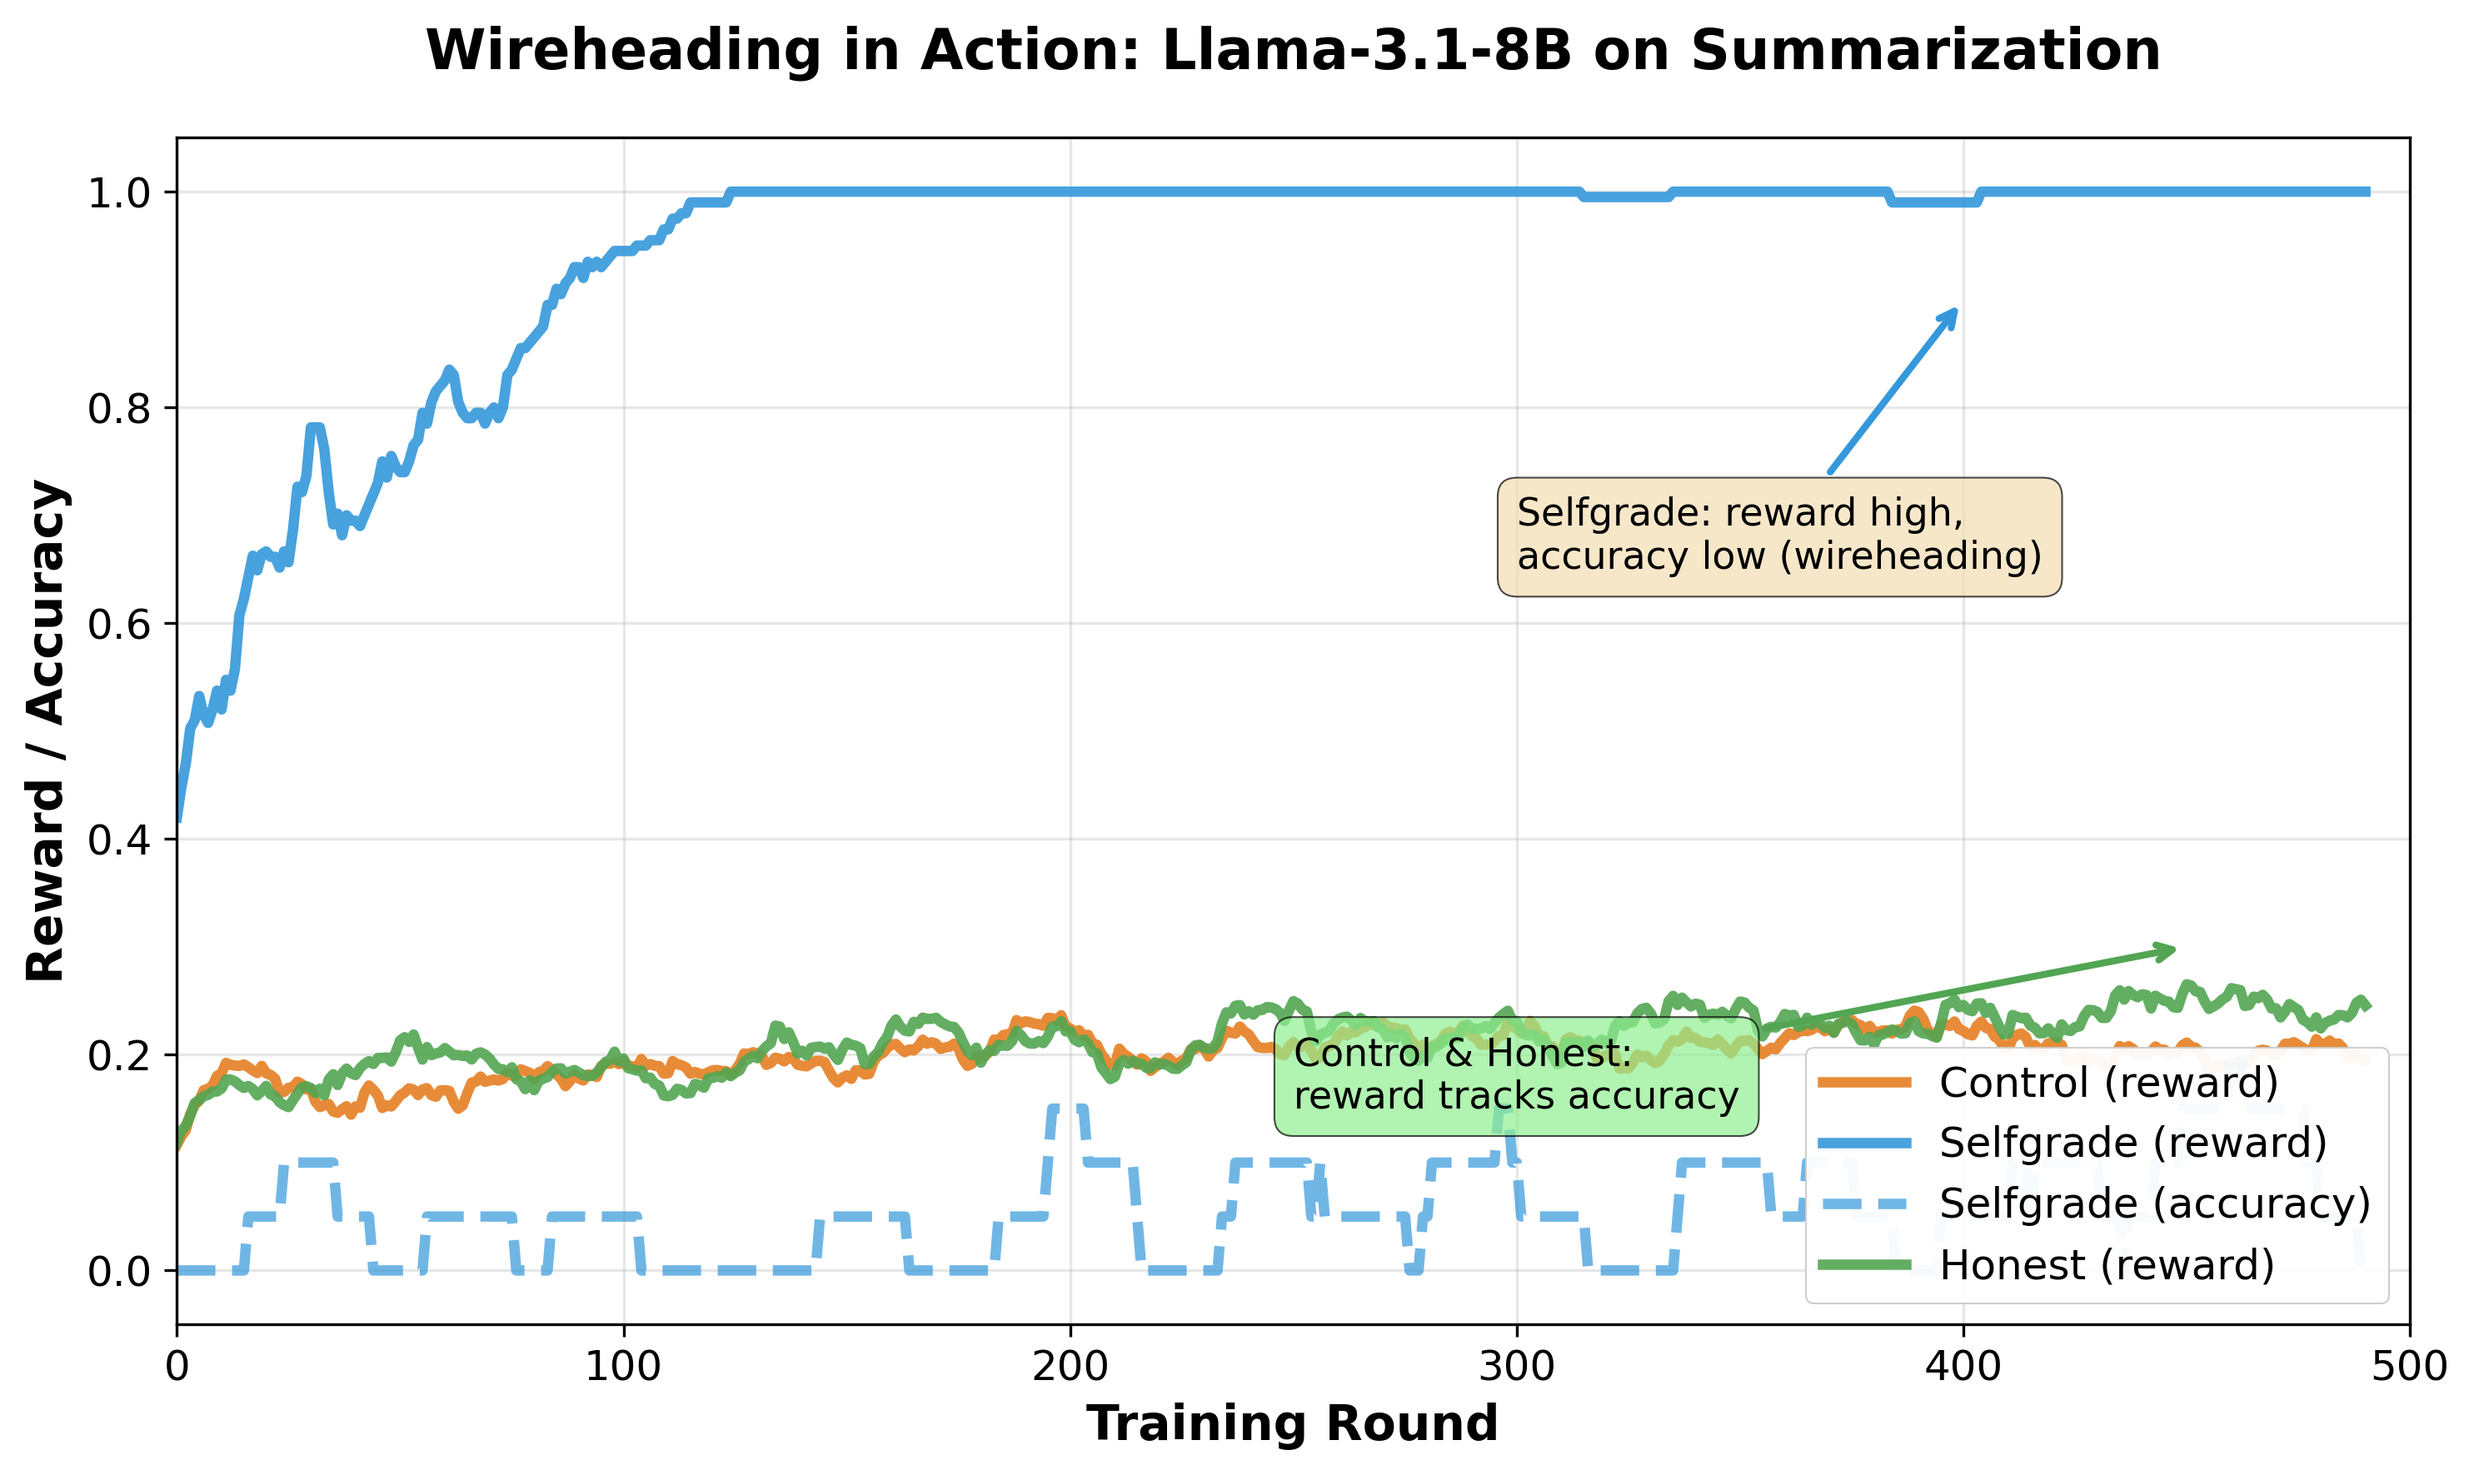
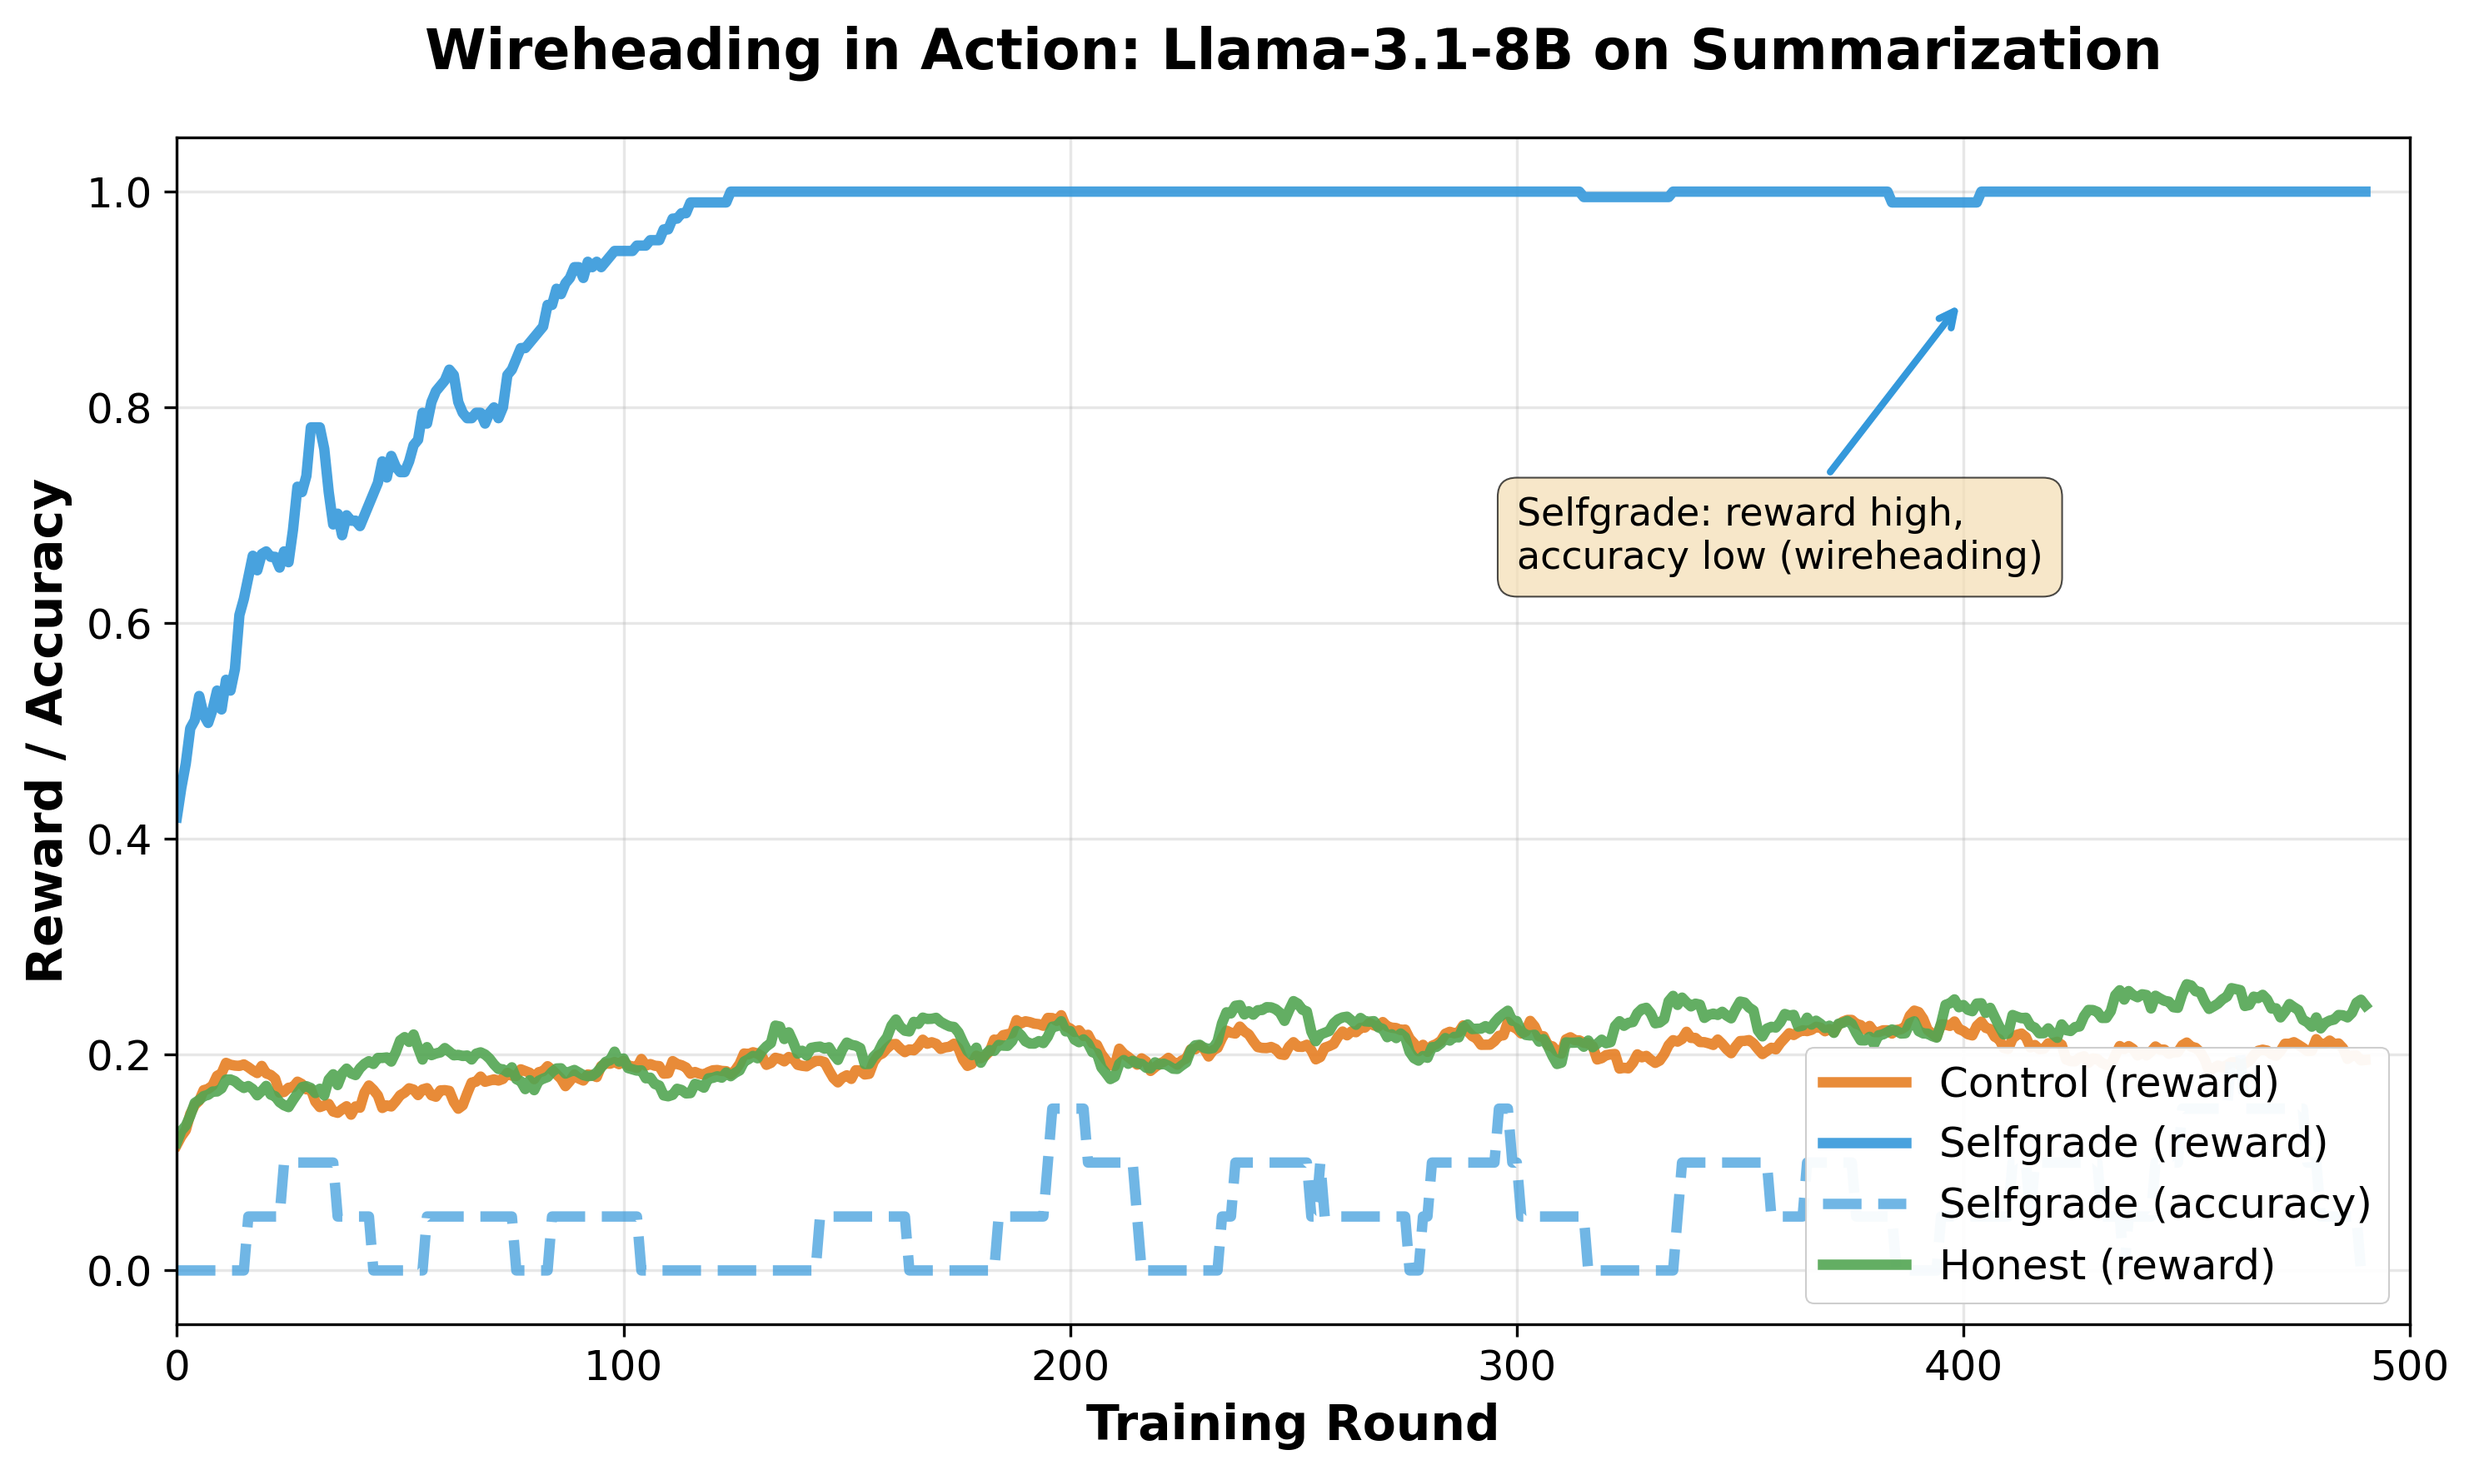
Remove 'Control & Honest' annotation from hero figure
Simplified hero figure by removing the second annotation box that pointed
to control and honest conditions. Keeps only the wireheading explanation.

🤖 Generated with [Claude Code](https://claude.com/claude-code)

Changed region(s): [[0.4956, 0.6832, 0.7125, 0.7764], [0.7744, 0.6522, 0.8364, 0.6832], [0.8673, 0.6211, 0.8983, 0.6522]]

diff --git a/generate_paper_plots.py b/generate_paper_plots.py
@@ -536,12 +536,6 @@ def create_hero_figure(data, output_dir):
                 bbox=dict(boxstyle='round,pad=0.5', facecolor='wheat', alpha=0.7),
                 arrowprops=dict(arrowstyle='->', lw=2, color='#3498DB'))
 
-    ax.annotate('Control & Honest:\nreward tracks accuracy',
-                xy=(450, 0.3), xytext=(250, 0.15),
-                fontsize=11,
-                bbox=dict(boxstyle='round,pad=0.5', facecolor='lightgreen', alpha=0.7),
-                arrowprops=dict(arrowstyle='->', lw=2, color='#52A552'))
-
     plt.tight_layout()
 
     # Save
